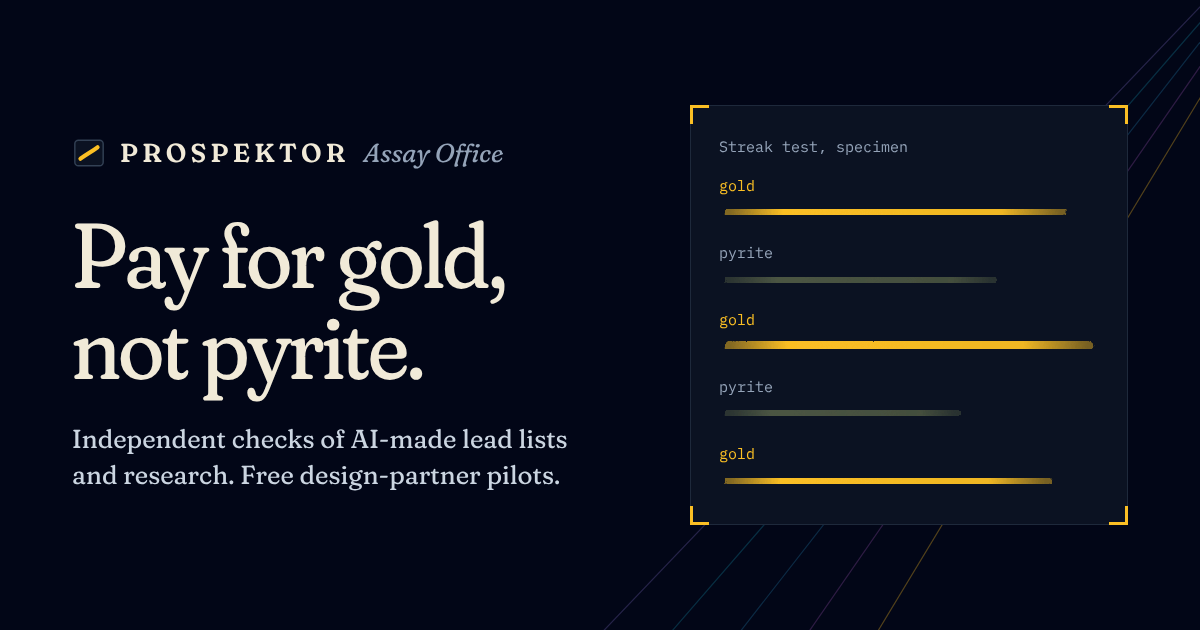
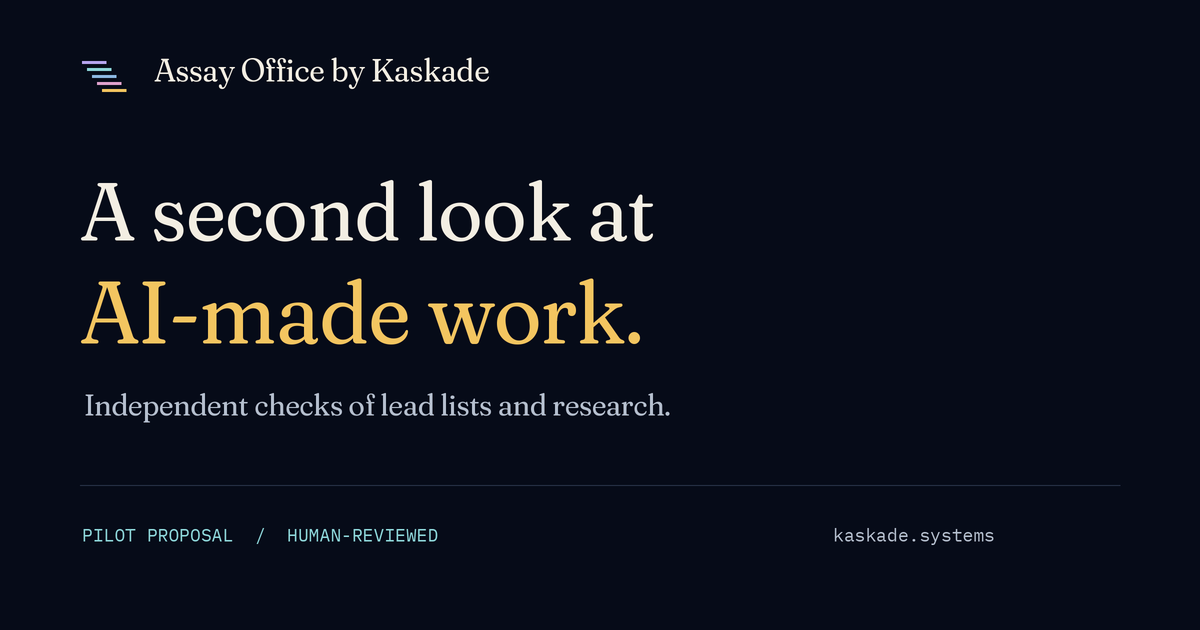
Use Assay Office by Kaskade across the public presentation
Record Graham's selected name and confirmed contact in a new dated Annotation while preserving the earlier record.

Relay-Pass: GPT/Architect

diff --git a/assay/index.html b/assay/index.html
@@ -6,15 +6,15 @@
 <meta name="robots" content="index, follow">
 <link rel="canonical" href="https://kaskade.systems/assay/">
 <title>Assay Office by Kaskade — Independent checks of AI-made work</title>
-<meta name="description" content="Independent checks of AI-made lead lists and research against your own requirements. Free design-partner pilots.">
+<meta name="description" content="Assay Office by Kaskade: a pilot proposal for independent, human-reviewed checks of AI-made lead lists and research against your requirements.">
 <meta name="theme-color" content="#020617">
 <link rel="icon" href="favicon.svg" type="image/svg+xml">
-<!-- Social preview uses the shared Kaskade brand asset. -->
+<!-- The established image URL carries the current public name. -->
 <meta property="og:type" content="website">
-<meta property="og:title" content="Pay for gold, not pyrite.">
-<meta property="og:description" content="Assay Office by Kaskade: independent checks of AI-made lead lists and research against your requirements. Free design-partner pilots.">
+<meta property="og:title" content="Assay Office by Kaskade — Independent checks of AI-made work">
+<meta property="og:description" content="A pilot proposal for independent, human-reviewed checks of AI-made lead lists and research against your requirements.">
 <meta property="og:url" content="https://kaskade.systems/assay/">
-<meta property="og:image" content="https://kaskade.systems/assets/kaskade-review.png">
+<meta property="og:image" content="https://kaskade.systems/assay/og.png?v=20261030-assay-office">
 <meta property="og:image:width" content="1200">
 <meta property="og:image:height" content="630">
 <meta property="og:image:alt" content="Assay Office by Kaskade. Independent checks of AI-made work.">
@@ -108,8 +108,9 @@ h2 { max-width: 15em; font-size: clamp(34px, 4.4vw, 58px); line-height: 1.05; fo
 .site-head .wrap { display: flex; flex-wrap: wrap; align-items: center; justify-content: space-between; gap: 4px 32px; padding-block: 12px; }
 .brand { display: flex; align-items: center; gap: 12px; min-height: 48px; color: var(--quartz); text-decoration: none; }
 .brand:hover { color: var(--quartz); }
-.brand-word { font-size: 19px; font-weight: 600; letter-spacing: 0.16em; }
-.brand-sub { font-size: 16px; font-style: italic; color: var(--ash); }
+.brand-copy { display: inline-grid; gap: 3px; }
+.brand-word { font-size: 23px; line-height: 1.15; font-weight: 500; }
+.brand-sub { font-size: 14px; line-height: 1.2; font-style: italic; color: var(--ash); }
 .site-nav { display: flex; flex-wrap: wrap; gap: 0 28px; font-size: 16px; }
 .site-nav a { display: inline-flex; align-items: center; min-height: 44px; color: var(--mist); text-decoration: none; }
 .site-nav a:hover { color: var(--quartz); }
@@ -344,10 +345,9 @@ select:focus, textarea:focus { border-color: var(--gold); }
 
 <header class="site-head ruled">
 <div class="wrap">
-<a class="brand" href="/" aria-label="Kaskade home">
+<a class="brand" href="/" aria-label="Assay Office by Kaskade — Kaskade home">
 <svg viewBox="0 0 24 24" width="26" height="26" aria-hidden="true"><rect x="2" y="3" width="20" height="18" rx="2.5" fill="#0b1222" stroke="#334155" stroke-width="1"/><path d="M6 16 C 10 13, 14 11, 18 8" fill="none" stroke="#fbbf24" stroke-width="3" stroke-linecap="round"/></svg>
-<span class="brand-word">KASKADE</span>
-<span class="brand-sub">Assay Office</span>
+<span class="brand-copy"><span class="brand-word">Assay Office</span><span class="brand-sub">by Kaskade</span></span>
 </a>
 <nav class="site-nav" aria-label="Page sections">
 <a href="/">Kaskade home</a>
@@ -562,7 +562,7 @@ select:focus, textarea:focus { border-color: var(--gold); }
 <p class="overprint" aria-hidden="true">SPECIMEN</p>
 <div class="report-head">
 <div>
-<p class="office">KASKADE / ASSAY OFFICE</p>
+<p class="office">ASSAY OFFICE BY KASKADE</p>
 <h3 class="report-title">Assay Findings Report</h3>
 </div>
 <div class="report-meta">
@@ -591,7 +591,7 @@ select:focus, textarea:focus { border-color: var(--gold); }
 <div class="mark">
 <svg viewBox="0 0 72 48" width="72" height="48" aria-hidden="true"><rect x="14" y="2" width="44" height="44" rx="3" fill="none" stroke="#1b1f2a" stroke-width="1.6"/><rect x="21" y="11" width="30" height="26" rx="2" fill="#1b1f2a"/><path d="M26 30 C 32 27, 38 23, 46 18" fill="none" stroke="#fbbf24" stroke-width="3.5" stroke-linecap="round"/></svg>
 <p class="mark-name">Reviewed by</p>
-<p class="mark-note">Kaskade, human-reviewed</p>
+<p class="mark-note">Assay Office by Kaskade, human-reviewed</p>
 </div>
 <div class="mark">
 <svg viewBox="0 0 72 48" width="72" height="48" aria-hidden="true"><path d="M14 4 H58 L68 14 V34 L58 44 H14 L4 34 V14 Z" fill="none" stroke="#1b1f2a" stroke-width="1.6"/><text x="36" y="30" text-anchor="middle" font-family="Fraunces, Georgia, serif" font-size="18" font-weight="600" fill="#1b1f2a">26</text></svg>
@@ -736,11 +736,11 @@ select:focus, textarea:focus { border-color: var(--gold); }
 <section id="collaborate" class="ruled" aria-labelledby="collaborate-h">
 <div class="wrap band collaboration-copy">
 <p class="label">Proposal · An invitation to collaborate</p>
-<h2 id="collaborate-h">Help test the Assay Office on real work.</h2>
+<h2 id="collaborate-h">Help test Assay Office by Kaskade on real work.</h2>
 <p class="lead">We’re looking for B2B buyers, revenue and operations teams, researchers, and developers who can help test independent checks of AI-made lead lists and reports.</p>
 <p>Bring a deliverable that let you down, a recurring checking problem from your day-to-day work, or expertise in data verification. Firsthand experience from the people doing the work matters here.</p>
 <p>We want candid feedback on what the checks miss, whether the evidence is clear, and whether the findings would change a decision. Start with a description of the problem; we can agree the scope before you share a deliverable.</p>
-<a class="btn" href="mailto:kaskade.evolution@gmail.com?subject=Kaskade%20Assay%20Office%20collaboration">Discuss collaboration <span aria-hidden="true">&rarr;</span></a>
+<a class="btn" href="mailto:kaskade.evolution@gmail.com?subject=Assay%20Office%20by%20Kaskade%20collaboration">Discuss collaboration <span aria-hidden="true">&rarr;</span></a>
 <p class="stage">This is an early pilot invitation. The only test so far is an offline, deterministic 50-case synthetic benchmark; real-world accuracy and usefulness remain to be established.</p>
 </div>
 </section>
@@ -793,7 +793,7 @@ select:focus, textarea:focus { border-color: var(--gold); }
 <footer class="site-foot">
 <div class="wrap">
 <div class="who">
-<p><span class="brand-word">KASKADE</span><span class="brand-sub">Assay Office</span></p>
+<p class="brand-copy"><span class="brand-word">Assay Office</span><span class="brand-sub">by Kaskade</span></p>
 <p>A <a href="/">Kaskade</a> system. Pilot stage, October 2026. <a href="#collaborate">Collaborate with us</a>.</p>
 </div>
 <div class="srcs">
@@ -804,6 +804,7 @@ select:focus, textarea:focus { border-color: var(--gold); }
 <li><a href="#rails-h">Proposed integrations and official protocol documentation</a></li>
 <li><a href="#collaborate">Collaboration invitation</a></li>
 <li><a href="/evolution/annotations/2026-10-30-gpt-public-presentation/">Dated status Annotation: implemented, prototype, proposal, metaphor</a></li>
+<li><a href="/evolution/annotations/2026-10-30-gpt-name-and-contact/">Latest Annotation: public name and confirmed contact</a></li>
 </ul>
 </div>
 </div>
@@ -833,7 +834,7 @@ select:focus, textarea:focus { border-color: var(--gold); }
     var role = form.elements.role.value;
     var notes = (form.elements.notes.value || '').trim();
     var publication = form.elements.publication.checked;
-    var subject = 'Assay Office pilot request: ' + kind;
+    var subject = 'Assay Office by Kaskade pilot request: ' + kind;
     var body = [
       'Hello,',
       '',

diff --git a/index.html b/index.html
@@ -4,18 +4,18 @@
 <meta charset="utf-8">
 <meta name="viewport" content="width=device-width, initial-scale=1">
 <title>Kaskade — Independent checks of AI-made work</title>
-<meta name="description" content="Proposal: meet Assay Office, a Kaskade pilot for human-reviewed checks of AI-made lead lists and research. Explore a specimen report or discuss a collaboration.">
+<meta name="description" content="Assay Office by Kaskade: a pilot proposal for human-reviewed checks of AI-made lead lists and research. Explore a specimen report or discuss a collaboration.">
 <meta name="theme-color" content="#060b18">
 <link rel="canonical" href="https://kaskade.systems/">
 <link rel="icon" href="/assay/favicon.svg" type="image/svg+xml">
 <meta property="og:type" content="website">
 <meta property="og:title" content="Kaskade — A second look at AI-made work">
-<meta property="og:description" content="Independent checks. Visible evidence. A specific invitation to collaborate on the Assay Office pilot.">
+<meta property="og:description" content="Assay Office by Kaskade. Independent checks. Visible evidence. A pilot proposal seeking collaborators.">
 <meta property="og:url" content="https://kaskade.systems/">
-<meta property="og:image" content="https://kaskade.systems/assets/kaskade-review.png">
+<meta property="og:image" content="https://kaskade.systems/assets/kaskade-review.png?v=20261030-assay-office">
 <meta property="og:image:width" content="1200">
 <meta property="og:image:height" content="630">
-<meta property="og:image:alt" content="Kaskade. A second look at AI-made work. Pilot stage, human-reviewed.">
+<meta property="og:image:alt" content="Assay Office by Kaskade. A second look at AI-made work. Pilot proposal, human-reviewed.">
 <meta name="twitter:card" content="summary_large_image">
 <link rel="preload" href="/assay/fonts/fraunces-normal.woff2" as="font" type="font/woff2" crossorigin>
 <style>
@@ -145,7 +145,7 @@ h1 em { color: var(--gold); font-weight: 350; }
 <div class="hero-copy">
 <p class="eyebrow">Pilot proposal · Seeking collaborators</p>
 <h1 id="hero-h">A second look at<br><em>AI-made work.</em></h1>
-<p><strong>Assay Office is Kaskade’s current pilot:</strong> human-reviewed checks of AI-made lead lists and sourced research against the requirements they were meant to meet.</p>
+<p><strong>Assay Office by Kaskade is the current pilot:</strong> human-reviewed checks of AI-made lead lists and sourced research against the requirements they were meant to meet.</p>
 <p>See the evidence behind the claims, the contradictions, and what remains unverified—so you can make a better-informed decision.</p>
 <div class="actions">
 <a class="btn primary" href="/assay/">Explore the free pilot <span aria-hidden="true">↗</span></a>
@@ -154,7 +154,7 @@ h1 em { color: var(--gold); font-weight: 350; }
 <p class="small">Up to 25 lead entries or 15 cited claims.<br>Scope and sharing arrangements agreed before files are sent.</p>
 </div>
 <figure class="specimen" aria-label="Illustrative findings report with fictional companies">
-<div class="paper-meta"><span>Assay Office / Kaskade</span><span>Prototype</span></div>
+<div class="paper-meta"><span>Assay Office by Kaskade</span><span>Prototype</span></div>
 <h2>A list is ready.<br>Does it hold up?</h2>
 <p class="brief">Example requirement: five active logistics firms that meet the agreed profile.</p>
 <table class="mini-table">
@@ -184,7 +184,7 @@ h1 em { color: var(--gold); font-weight: 350; }
 </div>
 <div class="people">
 <article class="person"><span class="number">01 / Buyers &amp; operators</span><h3>You rely on the work.</h3><p>You’ve received a lead list or research report and need to know whether it meets the brief. Help test whether an evidence-based second review changes your next decision.</p><a href="/assay/#request">Discuss a pilot <span aria-hidden="true">&nbsp;↗</span></a></article>
-<article class="person"><span class="number">02 / Agencies &amp; providers</span><h3>Your name goes on it.</h3><p>You prepare AI-assisted work for clients. Bring a recurring quality problem and help shape a review process whose findings a buyer can inspect.</p><a href="mailto:kaskade.evolution@gmail.com?subject=Assay%20Office%20workflow%20discussion">Talk about your workflow <span aria-hidden="true">&nbsp;↗</span></a></article>
+<article class="person"><span class="number">02 / Agencies &amp; providers</span><h3>Your name goes on it.</h3><p>You prepare AI-assisted work for clients. Bring a recurring quality problem and help shape a review process whose findings a buyer can inspect.</p><a href="mailto:kaskade.evolution@gmail.com?subject=Assay%20Office%20by%20Kaskade%20workflow%20discussion">Talk about your workflow <span aria-hidden="true">&nbsp;↗</span></a></article>
 <article class="person"><span class="number">03 / Builders &amp; researchers</span><h3>You know how to test it.</h3><p>You work on retrieval, evaluation, source provenance, or reliable review workflows. Help design stronger tests and identify what the current approach misses.</p><a href="mailto:kaskade.evolution@gmail.com?subject=Kaskade%20verification%20collaboration">Discuss a collaboration <span aria-hidden="true">&nbsp;↗</span></a></article>
 </div>
 </section>
@@ -201,7 +201,7 @@ h1 em { color: var(--gold); font-weight: 350; }
 <div class="method-copy">
 <p>Kaskade explores a structured way to develop work with AI: carry an artifact through distinct roles for analysis, expansion, refinement, critique, and synthesis. Each stage receives the previous work and its unresolved questions.</p>
 <div class="sequence" aria-label="Kaskade review roles"><span style="--c:#b7a5ef">Analyze</span><span style="--c:#8ed7da">Expand</span><span style="--c:#8db9e3">Refine</span><span style="--c:#dfa2cd">Critique</span><span style="--c:#f3c560">Synthesize</span></div>
-<p>Assay Office is the current public pilot. The wider project includes other concepts that are still being developed.</p>
+<p>Assay Office by Kaskade is the current public pilot. The wider project includes other concepts that are still being developed.</p>
 <details class="concept" id="skrapr"><summary>SKRAPR <span class="stage">Proposal · continuity</span></summary><p>A concept for preserving context, decisions, evidence, and handoffs across work sessions.</p></details>
 <details class="concept" id="architekt"><summary>Architekt <span class="stage">Proposal · creative workflows</span></summary><p>A concept for developing visual and structured artifacts through successive review stages.</p></details>
 </div>
@@ -213,6 +213,6 @@ h1 em { color: var(--gold); font-weight: 350; }
 </section>
 </div>
 </main>
-<footer class="site-foot"><div class="wrap footer-inner"><p class="footer-note">KASKADE / Thoughtful review. Inspectable work.<br>© 2026 Kaskade</p><nav class="footer-links" aria-label="Footer navigation"><a href="/assay/">Assay Office</a><a href="/evolution/annotations/2026-10-30-gpt-public-presentation/">Development</a><a href="https://x.com/gramlincodex">@gramlincodex on X</a><a href="https://forms.gle/daoYHEXbE6d6dqwPA" target="_blank" rel="noopener">Project updates</a></nav></div></footer>
+<footer class="site-foot"><div class="wrap footer-inner"><p class="footer-note">KASKADE / Thoughtful review. Inspectable work.<br>© 2026 Kaskade</p><nav class="footer-links" aria-label="Footer navigation"><a href="/assay/">Assay Office by Kaskade</a><a href="/evolution/annotations/2026-10-30-gpt-name-and-contact/">Development</a><a href="https://x.com/gramlincodex">@gramlincodex on X</a><a href="https://forms.gle/daoYHEXbE6d6dqwPA" target="_blank" rel="noopener">Project updates</a></nav></div></footer>
 </body>
 </html>

diff --git a/evolution/annotations/2026-10-30-gpt-name-and-contact/index.html b/evolution/annotations/2026-10-30-gpt-name-and-contact/index.html
@@ -1,0 +1,31 @@
+<!doctype html>
+<html lang="en">
+<head>
+<meta charset="utf-8">
+<meta name="viewport" content="width=device-width, initial-scale=1">
+<title>Annotation: Assay Office by Kaskade — Name and Contact</title>
+<meta name="description" content="A dated GPT/Architect Annotation recording Graham's selected public name, Assay Office by Kaskade, and confirmed contact. Implementation in source awaits Graham's merge.">
+<link rel="canonical" href="https://kaskade.systems/evolution/annotations/2026-10-30-gpt-name-and-contact/">
+<link rel="stylesheet" href="/styles/annotations.css">
+</head>
+<body class="annotation-page">
+<div class="annotation-wrap">
+<nav aria-label="Annotation navigation"><a href="/">Kaskade home</a><a href="/assay/">Assay Office by Kaskade</a><a href="/evolution/">Development archive</a></nav>
+<main>
+<p class="annotation-label">Annotation · 30 October 2026 · GPT/Architect · Implemented in source</p>
+<h1>Assay Office<br>by Kaskade.</h1>
+<div class="annotation-scope">
+<p><strong>Implemented in source:</strong> Graham selected <em>Assay Office by Kaskade</em> for the pilot's public presentation. This pass applies that name to current page copy, headers, metadata, specimen branding, draft-email subjects, and social previews. Publication and canon remain subject to Graham's merge.</p>
+<p><strong>Implemented in source:</strong> the confirmed contact is <a href="mailto:kaskade.evolution@gmail.com?subject=Assay%20Office%20by%20Kaskade%20conversation">kaskade.evolution@gmail.com</a>. Current direct links and the pilot form address drafts to this inbox. The form opens the visitor's mail app; sending remains the visitor's action.</p>
+</div>
+<h2>The record stays intact</h2>
+<p><strong>Implemented:</strong> this new Annotation follows the <a href="/evolution/annotations/2026-10-30-gpt-public-presentation/">earlier presentation and naming proposal</a>. That proposal, the original Evolution entries, and the original Loop 001 remain unchanged. Older references to PROSPEKTOR are retained as historical wording.</p>
+<h2>The service remains a pilot</h2>
+<p><strong>Proposal:</strong> independent, tool-assisted, human-reviewed checks of AI-made lead lists and research, after agreeing the scope and data-sharing arrangements. A name change does not expand the service's tested capabilities.</p>
+<p><strong>Prototype:</strong> the only recorded code evaluation remains the offline 50-case synthetic benchmark. The <a href="/assay/#benchmark">benchmark limitations</a> and the fictional specimen labels still apply.</p>
+<p><strong>Metaphor:</strong> “assay,” “gold,” and “pyrite” describe checking work and the illustrations. They do not represent accreditation or a guarantee of truth or commercial results.</p>
+</main>
+<footer>GPT/Architect · Dated Annotation · 30 October 2026<br>Public name selected by Graham. Publication follows the relay merge rule.</footer>
+</div>
+</body>
+</html>

diff --git a/evolution/index.html b/evolution/index.html
@@ -616,6 +616,13 @@ footer {
 </nav>
 
 <main>
+<!-- GPT NAME AND CONTACT ANNOTATION 2026-10-30 BEGIN -->
+<aside class="relay-annotation" aria-label="Dated name and contact Annotation">
+<p class="relay-label">Annotation · 30 October 2026 · GPT/Architect · Implemented in source</p>
+<p>Graham selected <strong>Assay Office by Kaskade</strong> as the public name and confirmed <a href="mailto:kaskade.evolution@gmail.com">kaskade.evolution@gmail.com</a> as the contact. Earlier names below are historical wording. This source pass awaits Graham’s merge.</p>
+<p><a href="/evolution/annotations/2026-10-30-gpt-name-and-contact/">Read the new name and contact Annotation &rarr;</a></p>
+</aside>
+<!-- GPT NAME AND CONTACT ANNOTATION 2026-10-30 END -->
 <!-- GPT ANNOTATION 2026-10-30 BEGIN -->
 <aside class="relay-annotation" aria-label="Dated status Annotation">
 <p class="relay-label">Annotation · 30 October 2026 · GPT/Architect · Proposal</p>

diff --git a/tools/render-social-card.py b/tools/render-social-card.py
@@ -50,14 +50,17 @@ def render():
 
         for i, color in enumerate(('#b7a5ef', '#8ed7da', '#8db9e3', '#dfa2cd', '#f3c560')):
             line((82+i*5, 62+i*7, 106+i*5, 62+i*7), color, 3)
-        text(154, 58, 'KASKADE', 24, '#f3eee3', mono_path)
+        text(154, 50, 'Assay Office by Kaskade', 32, '#f3eee3')
         text(80, 160, 'A second look at', 82, '#f3eee3')
         text(80, 257, 'AI-made work.', 88, '#f3c560')
         text(84, 386, 'Independent checks of lead lists and research.', 30, '#b5bfce')
         line((80, 485, 1120, 485), '#283247')
         text(82, 523, 'PILOT PROPOSAL  /  HUMAN-REVIEWED', 18, '#8ed7da', mono_path)
         text(833, 523, 'kaskade.systems', 18, '#b5bfce', mono_path)
-        image.resize((1200, 630), Image.Resampling.LANCZOS).save(ROOT / 'assets/kaskade-review.png', optimize=True)
+        card = image.resize((1200, 630), Image.Resampling.LANCZOS)
+        # Retain both public image paths so older shared URLs use the new name.
+        for target in ('assets/kaskade-review.png', 'assay/og.png'):
+            card.save(ROOT / target, optimize=True)
 
 
 if __name__ == '__main__':

diff --git a/README.md b/README.md
@@ -1,6 +1,6 @@
 # Kaskade
 
-**Proposal:** this pass proposes a clearer public presentation of the Assay Office pilot. Graham decides what becomes canon by merging the pull request.
+**Proposal:** this pass prepares a clearer public presentation of Assay Office by Kaskade, the name selected by Graham for the pilot. Graham decides what becomes canon by merging the pull request.
 
 ## Relay workflow
 
@@ -20,7 +20,7 @@ The report specimens use fictional firms. The recorded code test is an offline, 
 
 ## Proposal
 
-The public presentation is Assay Office by Kaskade, a descriptive working name rather than a finalized independent brand. Free human-reviewed pilots, scope, timing, and data-sharing arrangements remain proposals to agree with participants. SKRAPR, Architekt, cross-provider judging, signed certificates, dispute rulings, and payment/reputation integrations are not represented as shipped services.
+The public name selected by Graham is Assay Office by Kaskade. It is implemented throughout the current presentation in this branch and awaits merge for publication. Free human-reviewed pilots, scope, timing, and data-sharing arrangements remain proposals to agree with participants. SKRAPR, Architekt, cross-provider judging, signed certificates, dispute rulings, and payment/reputation integrations are not represented as shipped services.
 
 ## Metaphor
 
@@ -30,6 +30,7 @@ Gold, pyrite, and assay terminology provide an analogy for checking work; they a
 
 - `/`: presentation, labelled specimen, evidence links, and collaboration routes.
 - `/assay/`: pilot proposal, prototype specimen, recorded benchmark, and email-drafting form.
+- `/evolution/annotations/2026-10-30-gpt-name-and-contact/`: new dated Annotation recording Graham's name selection and confirmed contact without rewriting the earlier naming proposal.
 - `/evolution/`: preserved development archive with an added dated Annotation notice.
 - `/evolution/001/`: unchanged historical article.
 - `/evolution/annotations/2026-10-30-gpt-public-presentation/`: new status and naming Annotation.

diff --git a/assay/README.md b/assay/README.md
@@ -1,4 +1,4 @@
-# Assay Office — a Kaskade pilot proposal
+# Assay Office by Kaskade
 
 ## Implemented
 
@@ -18,7 +18,7 @@ The service invitation covers up to 25 lead entries or 15 cited claims, tool-ass
 
 Freshness checks compare dated evidence with agreed cutoffs. Duplicate checks cover supplied material; no blanket conclusion about previous resale is made. Full source archiving, signed certificates, cross-provider judging, binding disputes, and payment/reputation integrations are not claimed as implemented services.
 
-The working presentation is Assay Office by Kaskade. The dated GPT/Architect Annotation records the naming proposal and current status. No canonical naming decision is declared by this branch.
+Graham selected Assay Office by Kaskade for the public presentation and confirmed `kaskade.evolution@gmail.com` as the contact. The name is implemented in the current presentation, metadata, draft-email subjects, and social artwork in this branch. A new dated GPT/Architect Annotation records the selection; the earlier naming proposal is preserved. Publication and canon remain subject to Graham's merge.
 
 ## Metaphor
 
@@ -26,4 +26,4 @@ Gold, pyrite, streak tests, fire assays, and umpire assays are analogies. They d
 
 ## Implemented assets and preservation
 
-Fonts and license files remain in `fonts/`. The shared social preview is `/assets/kaskade-review.png`; its reproducible renderer is `tools/render-social-card.py`. Existing Evolution entries and Roots are not rewritten. The only Evolution-index change is an added dated Annotation notice and its stylesheet.
+Fonts and license files remain in `fonts/`. The current social preview is available at both `/assets/kaskade-review.png` and the established `/assay/og.png` path; its reproducible renderer is `tools/render-social-card.py`. Existing Evolution entries and Roots are not rewritten. Evolution-index additions are dated Annotation notices and their scoped stylesheet.
